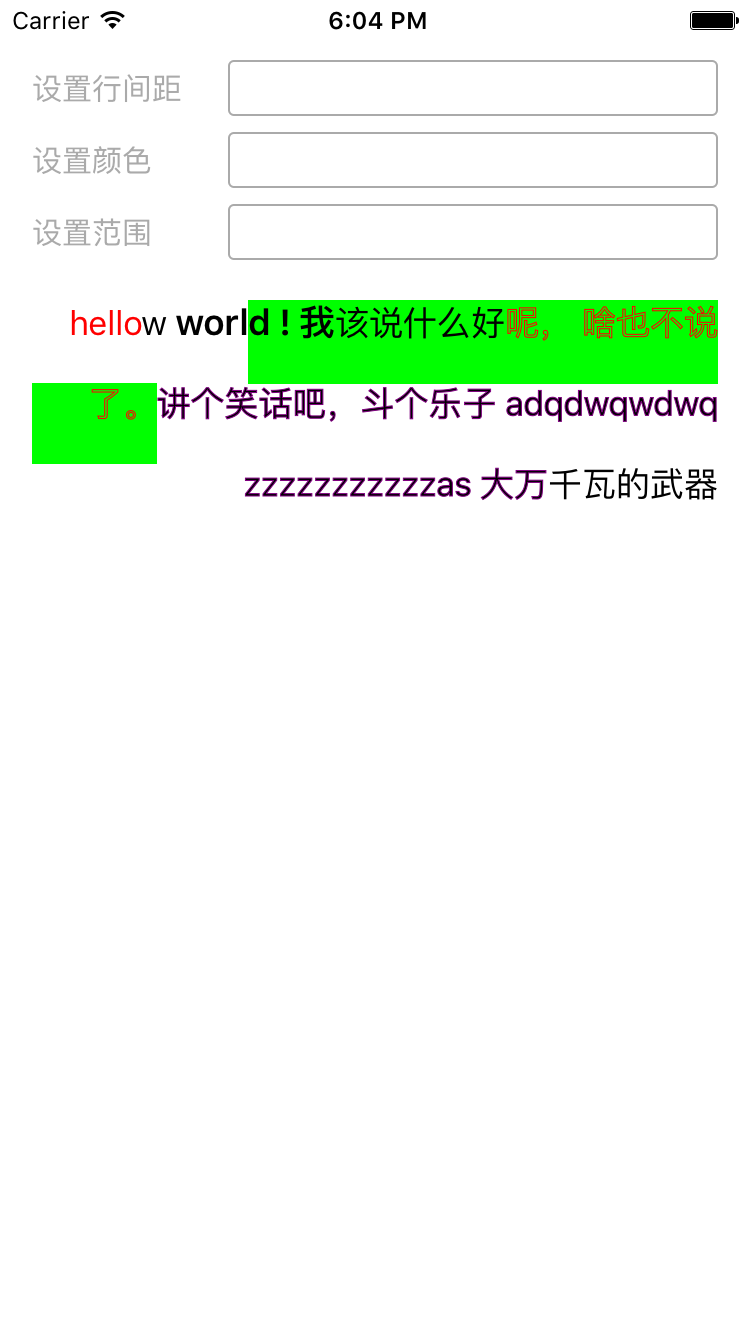
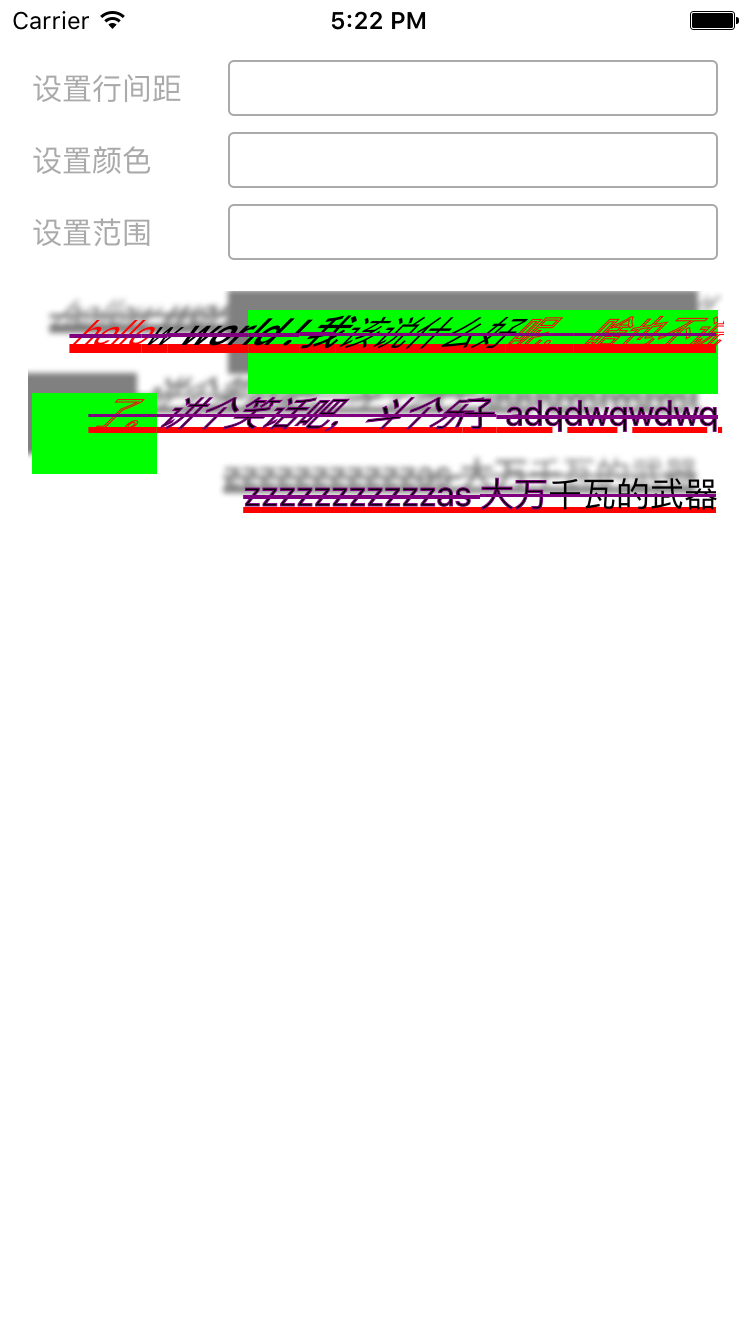
添加部分 字体

Changed region(s): [[0.0307, 0.2151, 0.9813, 0.3996], [0.4293, 0.0, 0.5213, 0.0307]]

diff --git a/AttributeString-Text/AttributeString-Text/ViewController.swift b/AttributeString-Text/AttributeString-Text/ViewController.swift
@@ -71,7 +71,12 @@ class ViewController: UIViewController {
 
 
     func renderStr(){
-        
+
+        let shadows = NSShadow()
+        shadows.shadowBlurRadius = 3
+        shadows.shadowColor = UIColor.grayColor()
+        shadows.shadowOffset = CGSize(width: -10, height: -10)
+
         let mutAttr = NSMutableAttributedString(string: testStr)
         mutAttr.addAttributes([NSForegroundColorAttributeName : UIColor.redColor()], range: NSMakeRange(0, 5))
         mutAttr.addAttributes([NSFontAttributeName : UIFont.boldSystemFontOfSize(18)], range: NSMakeRange(6, 10))
@@ -83,6 +88,19 @@ class ViewController: UIViewController {
 
         // 空心字
         mutAttr.addAttributes([NSStrokeColorAttributeName : UIColor.purpleColor() , NSStrokeWidthAttributeName : -3], range: NSMakeRange(30, 38))
+
+        //紫色的中划线
+        mutAttr.addAttributes([NSStrikethroughStyleAttributeName : 2], range: NSMakeRange(0, testStr.utf16.count))
+        mutAttr.addAttributes([NSStrikethroughColorAttributeName : UIColor.purpleColor()], range: NSMakeRange(0, testStr.utf16.count))
+        print(NSUnderlineStyle.PatternDashDotDot.rawValue)
+        //下划线
+        mutAttr.addAttributes([NSUnderlineStyleAttributeName : 3], range: NSMakeRange(0, testStr.utf16.count))
+        mutAttr.addAttributes([NSUnderlineColorAttributeName : UIColor.redColor()], range: NSMakeRange(0, testStr.utf16.count))
+        //斜体
+        mutAttr.addAttributes([NSObliquenessAttributeName : 1], range: NSMakeRange(0, testStr.utf16.count - 34))
+
+        mutAttr.addAttributes([NSShadowAttributeName : shadows], range: NSMakeRange(0, testStr.utf16.count))
+
 
         //段落样式
         let para = NSMutableParagraphStyle()
